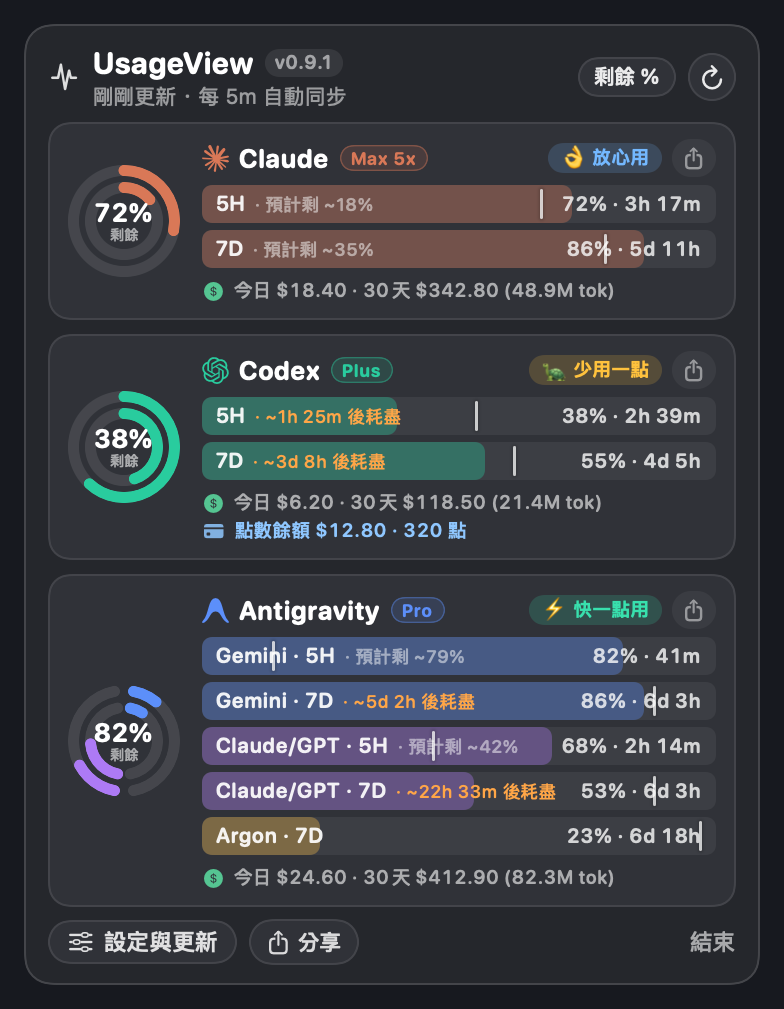
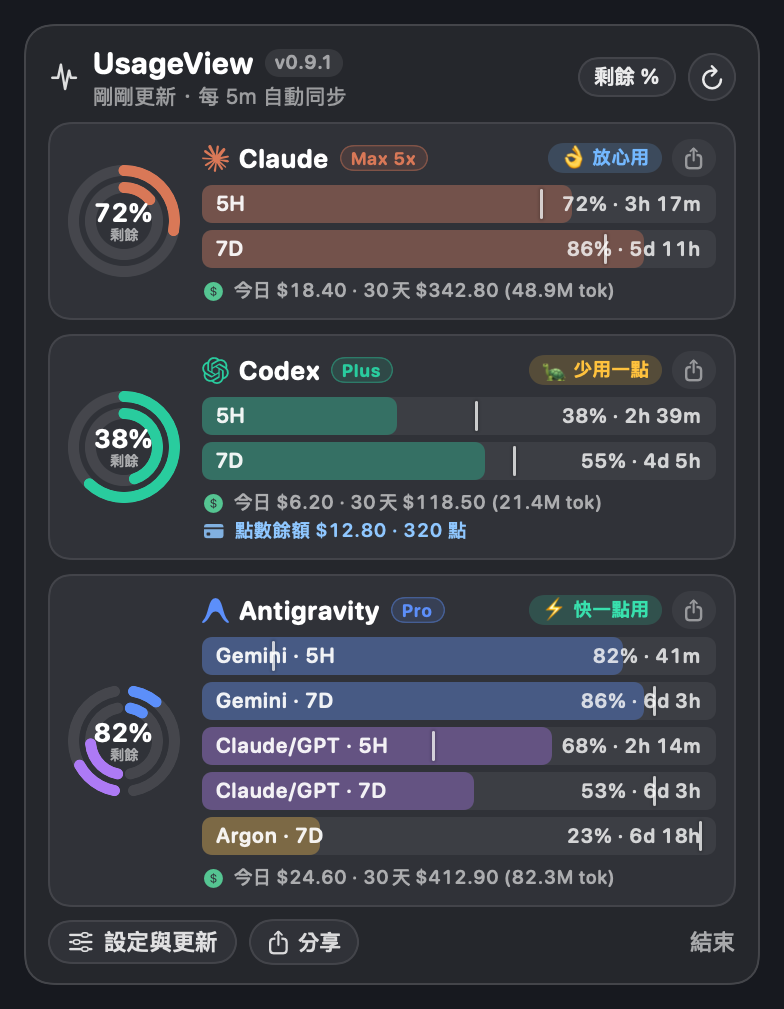
style(ui): remove burn-rate projection text from progress bars and optimize memory footprint

diff --git a/Sources/QuotaBarCore/Services/LocalUsageScanner.swift b/Sources/QuotaBarCore/Services/LocalUsageScanner.swift
@@ -375,44 +375,45 @@ public actor LocalUsageScanner {
     }
 
     private static func parseAntigravityDB(path: String) -> [Record] {
-        let hasSteps = runSQLite(path: path, sql: "SELECT 1 FROM pragma_table_info('steps') WHERE name = 'metadata'") != nil
-        let stepCol = hasSteps
-            ? ", 'step_hex', (SELECT CASE WHEN length(metadata) <= 524288 THEN hex(metadata) ELSE NULL END FROM steps WHERE idx = g.idx)"
-            : ""
-        let sql = """
-        SELECT json_group_array(json_object('hex', CASE WHEN length(g.data) <= 524288 THEN hex(g.data) ELSE NULL END\(stepCol)))
-        FROM (SELECT idx, data FROM gen_metadata WHERE data IS NOT NULL ORDER BY idx LIMIT 500) g;
-        """
-        guard let jsonText = runSQLite(path: path, sql: sql),
-              let rows = (try? JSONSerialization.jsonObject(with: Data(jsonText.utf8))) as? [[String: Any]]
-        else { return [] }
+        return autoreleasepool {
+            let hasSteps = runSQLite(path: path, sql: "SELECT 1 FROM pragma_table_info('steps') WHERE name = 'metadata'") != nil
+            let stepCol = hasSteps
+                ? " || '|' || COALESCE((SELECT CASE WHEN length(metadata) <= 32768 THEN hex(metadata) ELSE '' END FROM steps WHERE idx = g.idx), '')"
+                : ""
+            let sql = """
+            SELECT CASE WHEN length(g.data) <= 65536 THEN hex(g.data) ELSE '' END\(stepCol)
+            FROM gen_metadata g WHERE g.data IS NOT NULL ORDER BY g.idx;
+            """
+            guard let rawText = runSQLite(path: path, sql: sql) else { return [] }
 
-        var out: [Record] = []
-        for row in rows {
-            guard let hex = row["hex"] as? String,
-                  let blob = ProtoDecode.bytes(fromHex: hex),
-                  let ev = ProtoDecode.decodeGeneration(
-                      blob: blob,
-                      stepBlob: (row["step_hex"] as? String).flatMap(ProtoDecode.bytes(fromHex:))
-                  )
-            else { continue }
-            let total = ev.inputTokens + ev.cacheReadTokens + ev.outputTokens
-            guard total > 0 else { continue }
-            let cost = ModelRateTable.estimateAntigravityCost(
-                model: ev.modelID ?? ev.label ?? "gemini-3.1-pro",
-                input: ev.inputTokens,
-                cacheRead: ev.cacheReadTokens,
-                output: ev.outputTokens
-            )
-            out.append(Record(
-                timestamp: Date(timeIntervalSince1970: TimeInterval(ev.timestampSeconds)),
-                tokens: total,
-                costUSD: cost,
-                dedupKey: nil,
-                isSidechain: false
-            ))
+            var out: [Record] = []
+            for line in rawText.split(whereSeparator: \.isNewline) {
+                let parts = line.split(separator: "|", omittingEmptySubsequences: false)
+                guard let hexSub = parts.first, !hexSub.isEmpty,
+                      let blob = ProtoDecode.bytes(fromHex: String(hexSub))
+                else { continue }
+                let stepBlob: [UInt8]? = (parts.count > 1 && !parts[1].isEmpty)
+                    ? ProtoDecode.bytes(fromHex: String(parts[1]))
+                    : nil
+                guard let ev = ProtoDecode.decodeGeneration(blob: blob, stepBlob: stepBlob) else { continue }
+                let total = ev.inputTokens + ev.cacheReadTokens + ev.outputTokens
+                guard total > 0 else { continue }
+                let cost = ModelRateTable.estimateAntigravityCost(
+                    model: ev.modelID ?? ev.label ?? "gemini-3.1-pro",
+                    input: ev.inputTokens,
+                    cacheRead: ev.cacheReadTokens,
+                    output: ev.outputTokens
+                )
+                out.append(Record(
+                    timestamp: Date(timeIntervalSince1970: TimeInterval(ev.timestampSeconds)),
+                    tokens: total,
+                    costUSD: cost,
+                    dedupKey: nil,
+                    isSidechain: false
+                ))
+            }
+            return out
         }
-        return out
     }
 
     private static func runSQLite(path: String, sql: String) -> String? {
@@ -440,10 +441,11 @@ public actor LocalUsageScanner {
         if let cached = fileCache[path], cached.mtime == mtime, cached.size == size {
             return cached.records
         }
-        guard size > 0, size <= 1_000_000_000,
-              let data = try? Data(contentsOf: url, options: .alwaysMapped)
-        else { return [] }
-        let records = parser(data)
+        guard size > 0, size <= 1_000_000_000 else { return [] }
+        let records: [Record] = autoreleasepool {
+            guard let data = try? Data(contentsOf: url, options: .alwaysMapped) else { return [] }
+            return parser(data)
+        }
         fileCache[path] = CachedFile(mtime: mtime, size: size, records: records)
         return records
     }

diff --git a/Sources/QuotaBar/Views/DashboardView.swift b/Sources/QuotaBar/Views/DashboardView.swift
@@ -632,7 +632,6 @@ private struct MetricBarRow: View {
             let fillWidth = max(barFraction > 0.005 ? 4 : 0, geo.size.width * CGFloat(barFraction))
             let elapsedFraction = line.timeElapsedFraction()
             let tickFraction = elapsedFraction.map { showRemaining ? (1.0 - $0) : $0 }
-            let projection = line.projectionText()
 
             ZStack(alignment: .leading) {
                 RoundedRectangle(cornerRadius: 5, style: .continuous)
@@ -641,7 +640,7 @@ private struct MetricBarRow: View {
                     .fill(color.opacity(0.35))
                     .frame(width: fillWidth)
 
-                // Feature 1: Even-pace time tick mark matching the current display direction (Remaining vs Used)
+                // Even-pace time tick mark matching the current display direction (Remaining vs Used)
                 if let tick = tickFraction {
                     let tickX = min(max(3, geo.size.width * CGFloat(tick)), geo.size.width - 3)
                     RoundedRectangle(cornerRadius: 1)
@@ -658,18 +657,7 @@ private struct MetricBarRow: View {
                         .lineLimit(1)
                         .fixedSize(horizontal: true, vertical: false)
 
-                    if let proj = projection {
-                        Text("· \(proj.text)")
-                            .font(.system(size: 9, weight: .medium, design: .rounded))
-                            .foregroundStyle(
-                                proj.isWarning
-                                    ? Color(red: 1.0, green: 0.65, blue: 0.28)
-                                    : Color.white.opacity(0.50)
-                            )
-                            .lineLimit(1)
-                    }
-
-                    Spacer(minLength: 2)
+                    Spacer(minLength: 4)
 
                     Text(trailingText)
                         .font(.system(size: 10, weight: .semibold, design: .rounded))

diff --git a/Sources/QuotaBarCore/Providers/Providers.swift b/Sources/QuotaBarCore/Providers/Providers.swift
@@ -303,14 +303,20 @@ struct AntigravityAuthStore: Sendable {
             "/usr/local/bin/agy",
             "/Applications/Antigravity.app/Contents/Resources/app/extensions/antigravity/bin/language_server_macos_arm",
         ]
+        let idPrefix = Data("1071006060591-".utf8)
+        let idSuffix = Data(".apps.googleusercontent.com".utf8)
+        let secretPrefix = Data("GOCSPX-".utf8)
         for path in candidates {
             let expanded = (path as NSString).expandingTildeInPath
-            guard let data = try? Data(contentsOf: URL(fileURLWithPath: expanded), options: .mappedIfSafe) else { continue }
-            let text = String(decoding: data, as: UTF8.self)
-            guard let idRange = text.range(of: #"1071[0-9]+-[a-z0-9]{32}\.apps\.googleusercontent\.com"#, options: .regularExpression),
-                  let secretRange = text.range(of: #"GOCSPX-[A-Za-z0-9_-]{28}"#, options: .regularExpression)
+            guard let data = try? Data(contentsOf: URL(fileURLWithPath: expanded), options: .alwaysMapped),
+                  let idStart = data.range(of: idPrefix)?.lowerBound,
+                  let idEnd = data.range(of: idSuffix, in: idStart..<min(data.endIndex, idStart + 120))?.upperBound,
+                  let secStart = data.range(of: secretPrefix)?.lowerBound
             else { continue }
-            return (String(text[idRange]), String(text[secretRange]))
+            let secEnd = min(data.endIndex, secStart + 35)
+            let idStr = String(decoding: data[idStart..<idEnd], as: UTF8.self)
+            let secStr = String(decoding: data[secStart..<secEnd], as: UTF8.self)
+            return (idStr, secStr)
         }
         return nil
     }()
